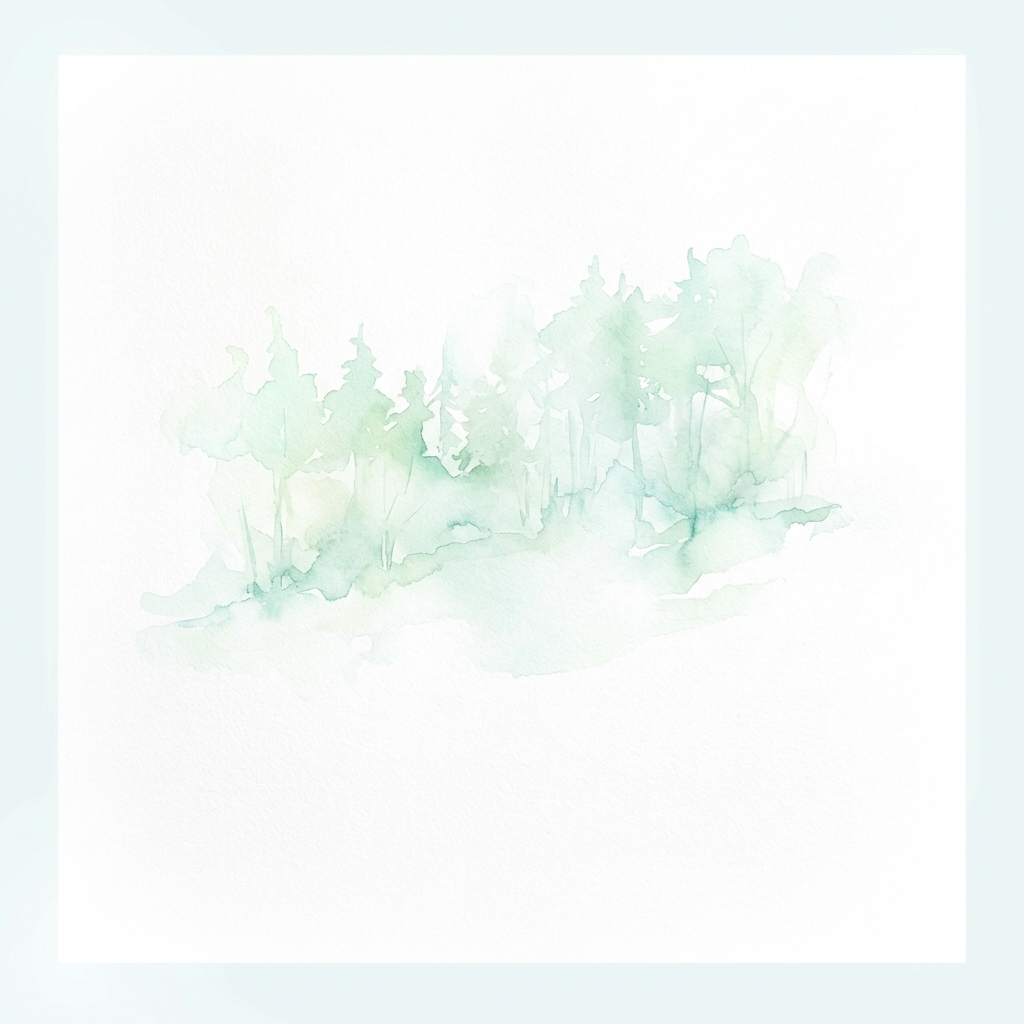
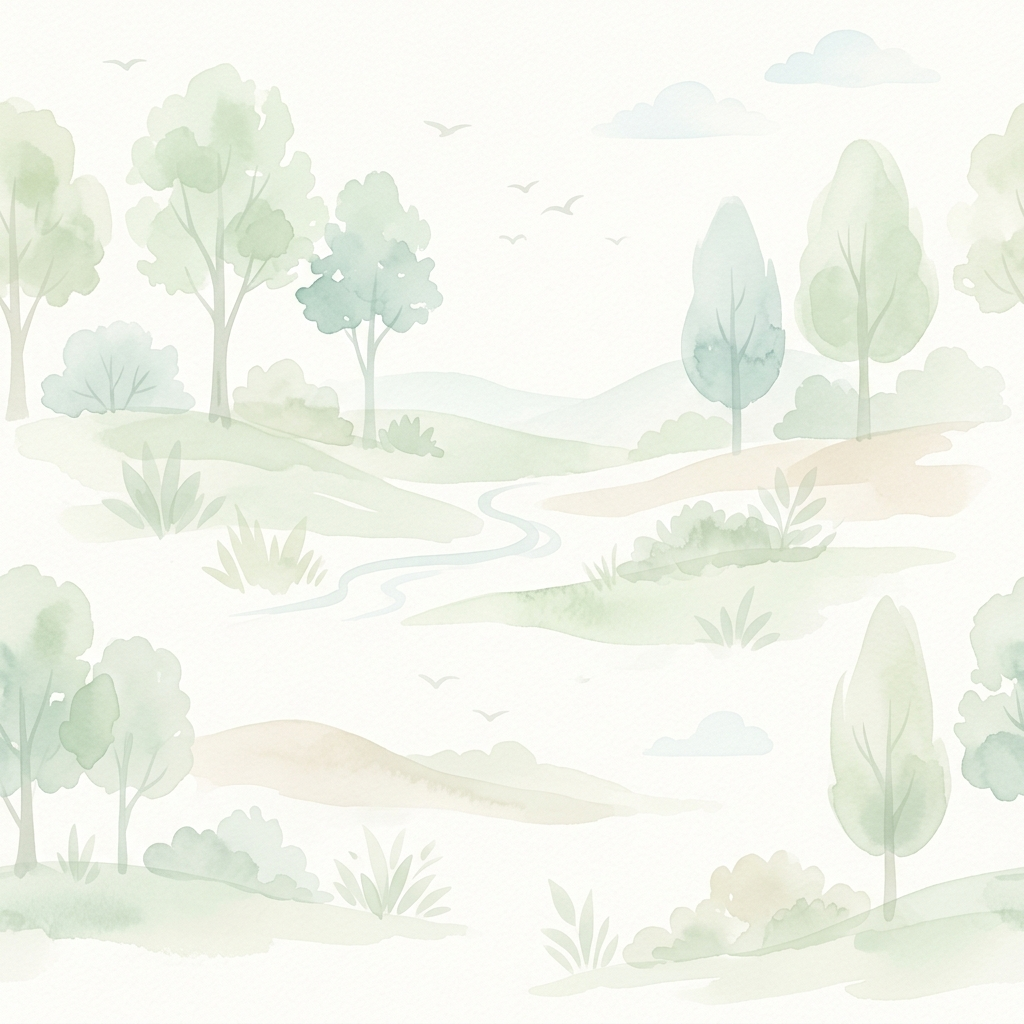
feat: add subtle nature background to hero section

diff --git a/src/app/page.tsx b/src/app/page.tsx
@@ -4,7 +4,6 @@
  */
 
 import Link from 'next/link';
-import Image from 'next/image';
 import { Button } from '@/components/ui/button';
 import { Card, CardContent } from '@/components/ui/card';
 import { CarbonScoreGauge } from '@/components/charts/carbon-score-gauge';
@@ -15,16 +14,13 @@ export default function HomePage(): JSX.Element {
       <main className="flex-1">
         {/* Hero Section */}
         <section className="relative overflow-hidden flex items-center min-h-[calc(100vh-4rem)] py-12">
-          {/* Fading Watercolor Background */}
-          <div className="absolute inset-0 z-0 opacity-40 pointer-events-none flex items-center justify-center mix-blend-multiply">
-            <Image
-              src="/hero-bg.png"
-              alt="Subtle watercolor forest background"
-              fill
-              className="object-cover object-center [mask-image:radial-gradient(ellipse_at_center,black_40%,transparent_70%)]"
-              priority
-            />
-          </div>
+          {/* Faded Nature Background Layer */}
+          <div 
+            className="absolute inset-0 z-0 bg-cover bg-center bg-no-repeat opacity-[0.15] dark:opacity-10 pointer-events-none mix-blend-multiply dark:mix-blend-screen"
+            style={{ backgroundImage: 'url("/hero-bg.png")' }}
+          />
+          {/* Gradient overlay to fade the image into the background color seamlessly */}
+          <div className="absolute inset-0 bg-gradient-to-b from-transparent via-background/50 to-background z-0 pointer-events-none" />
           
           <div className="container relative z-10">
             <div className="grid lg:grid-cols-2 gap-12 items-center">